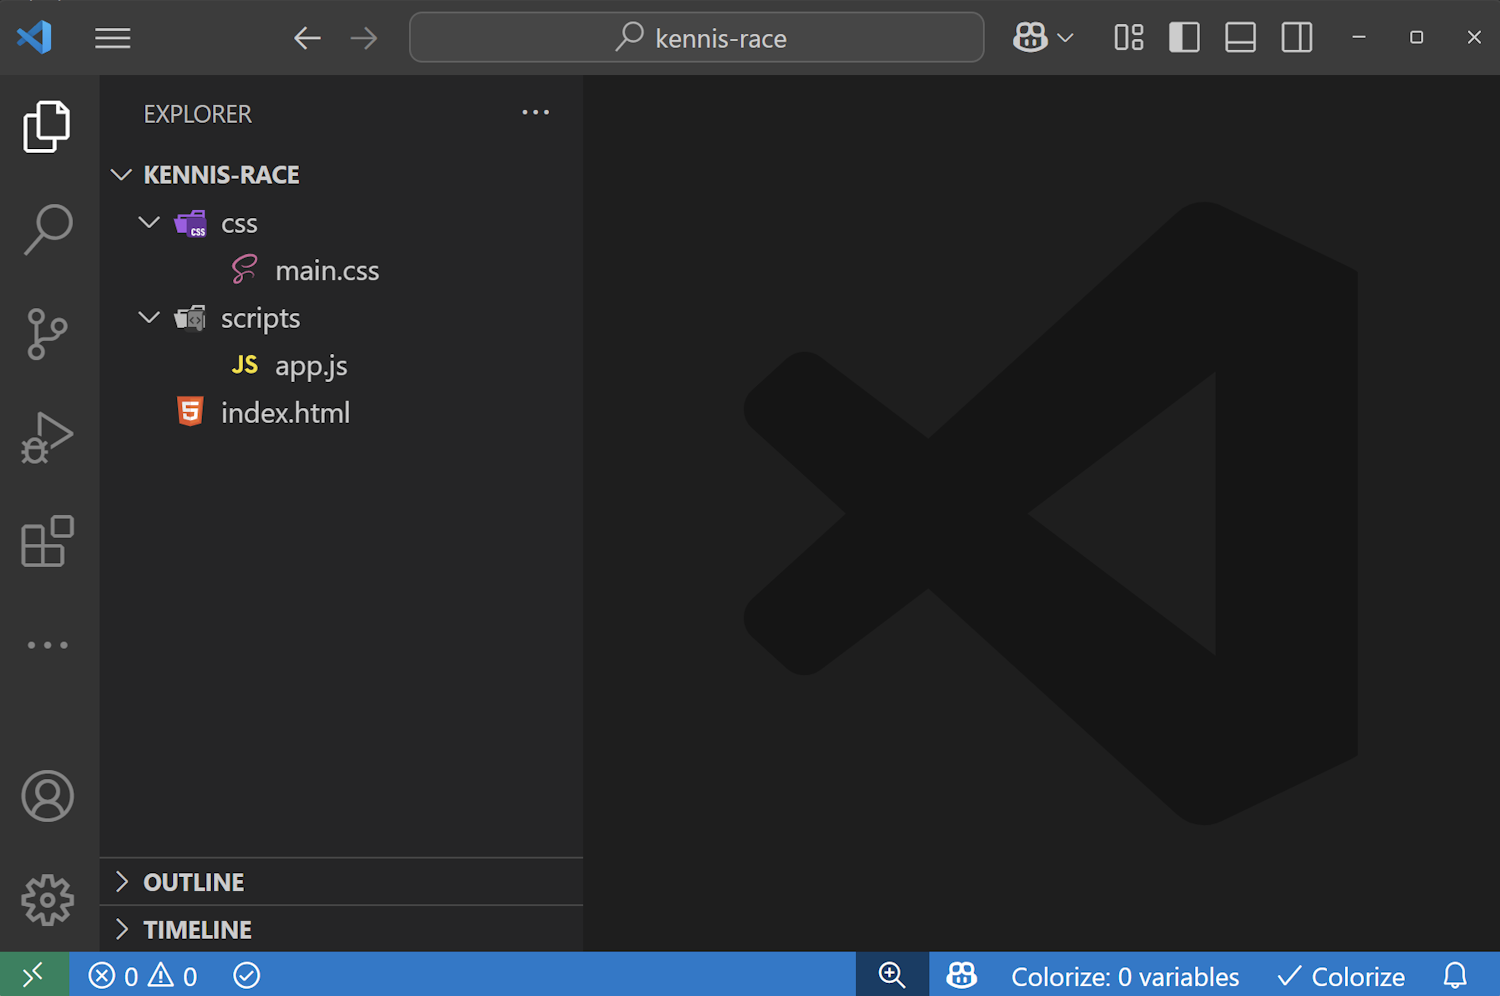
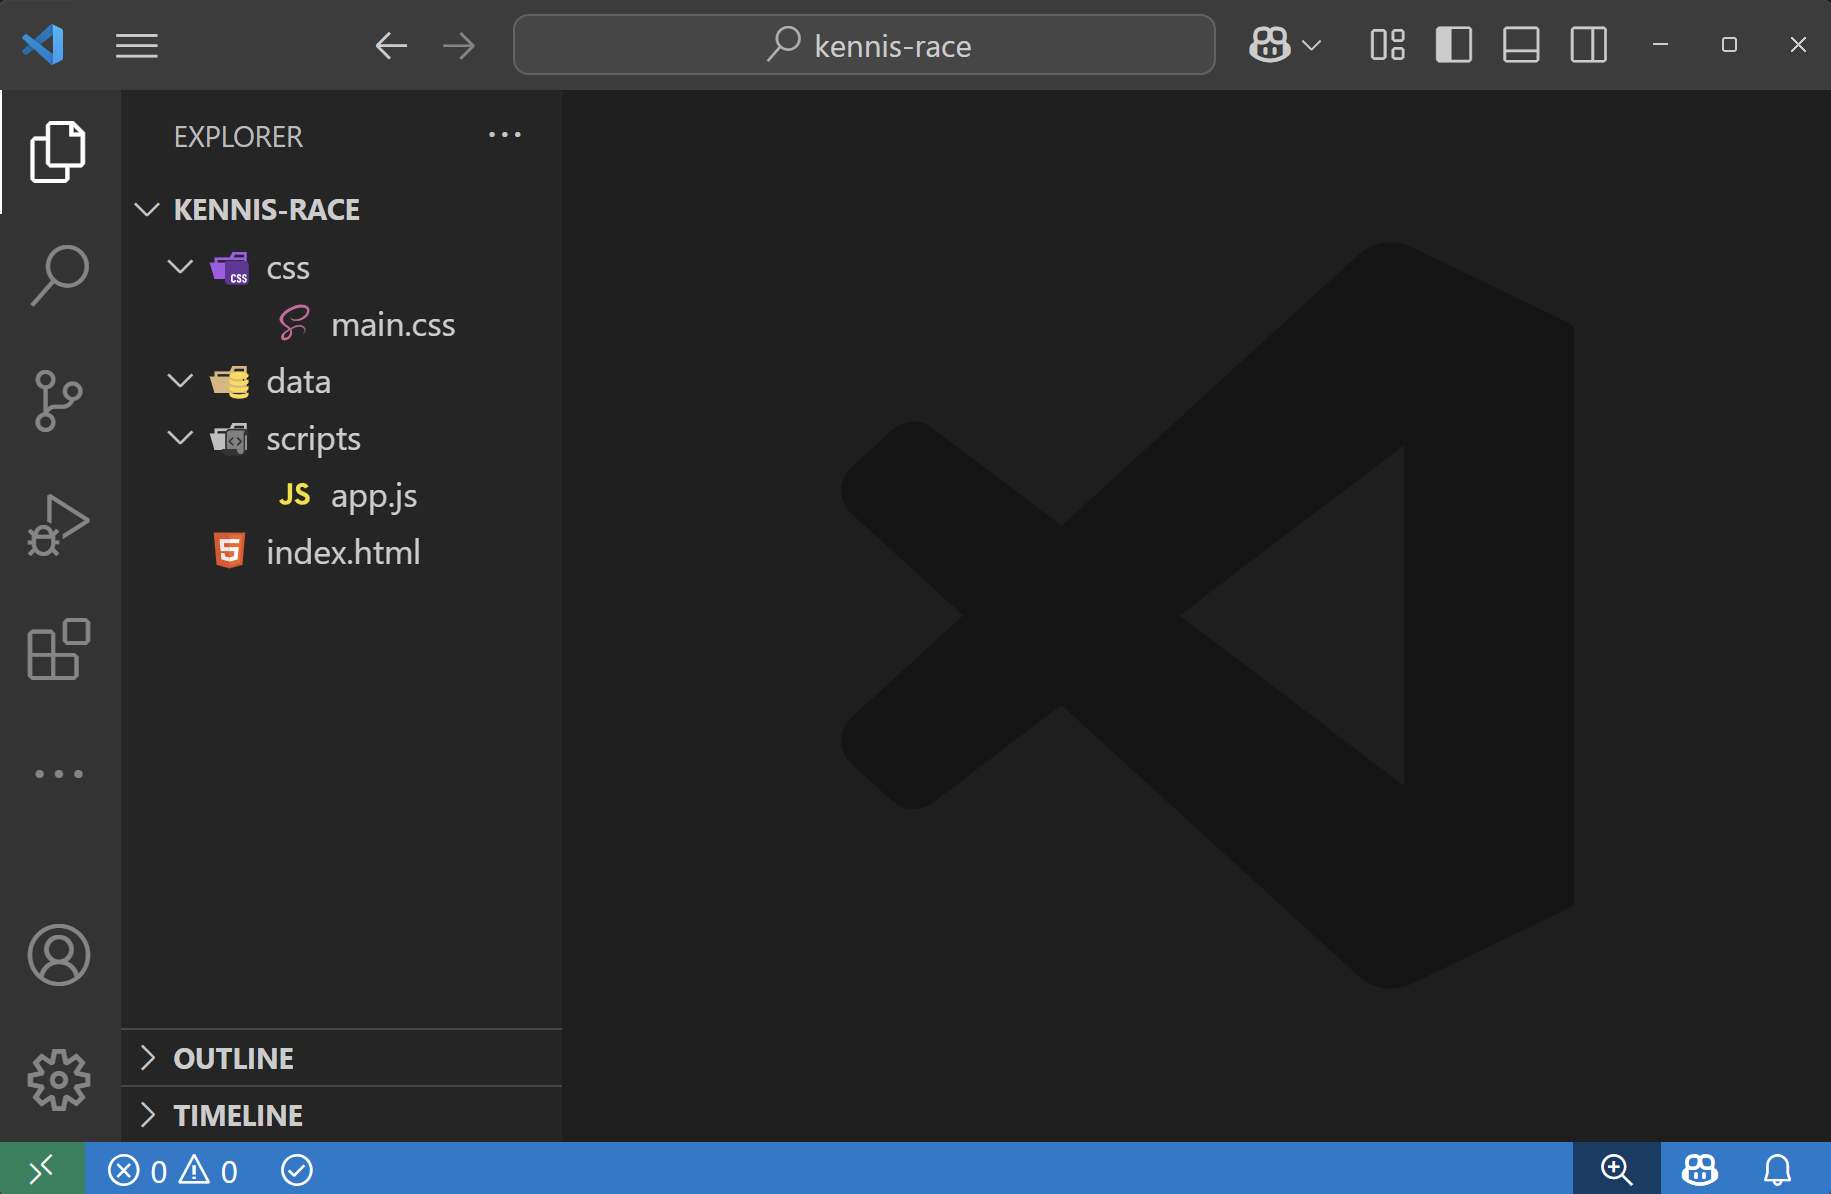
added first  javascript steps to tutorial

diff --git a/tutorial.html b/tutorial.html
@@ -38,19 +38,19 @@
                         <img class="tutorial__image" alt="Maak een nieuwe folder" src="./src/assets/screenshot2.png">
 
                     </li>
-                    <li>
+                    <li class="step__item">
                         1.2 Open Visual Studio Code en open de nieuwe folder.
                         <img class="tutorial__image" alt="Open de nieuwe folder" src="./src/assets/screenshot3.png">
                     </li>
-                    <li>
+                    <li class="step__item">
                         1.3 De map- en bestandsstructuur ziet er zo uit:
                         <img class="tutorial__image" alt="Maak map- en bestandsstructuur" src="./src/assets/screenshot4.png">
                     </li>
-                    <li>
+                    <li class="step__item">
                         1.4 Installeer de Live Server extensie in Visual Studio Code.
                         <img class="tutorial__image" alt="Installeer live server extensie" src="./src/assets/screenshot5.png">
                     </li>
-                    <li>
+                    <li class="step__item">
                         1.5 Start de Live Server door onderaan op <span>Go Live</span> te klikken. Dit opent een nieuw browservenster met je project.
                         <img class="tutorial__image" alt="Open de live server" src="./src/assets/screenshot6.png">
                     </li>
@@ -60,7 +60,7 @@
                 <h2>Stap 2: HTML</h2>
                 <p>HTML vormt de basis van je website. Gebruikersinteractie volgt later.</p>
                 <ul class="step__list">
-                    <li>
+                    <li class="step__item">
                         2.1 Kopieer onderstaande code in het <span class="tutorial__highlight">index.html</span> bestand. Dit is de basis stuctuur van een webpagina.
                         <pre>
 <code>&lt;<span class="tag">!DOCTYPE </span><span class="attr">html</span>&gt;
@@ -69,7 +69,7 @@
 &lt;<span class="tag">head</span>&gt;
     &lt;<span class="tag">meta</span> <span class="attr">charset</span>=<span class="string">&quot;UTF-8&quot;</span>&gt;
     &lt;<span class="tag">meta</span> <span class="attr">name</span>=<span class="string">&quot;viewport&quot;</span> <span class="attr">content</span>=<span class="string">&quot;width=device-width, initial-scale=1.0&quot;</span>&gt;
-    &lt;<span class="tag">title</span>&gt;<span class="text">Kennis Race</span>&lt;/<span class="tag">title</span>&gt;
+    &lt;<span class="tag">title</span>&gt;Kennis Race&lt;/<span class="tag">title</span>&gt;
     &lt;<span class="tag">link</span> <span class="attr">rel</span>=<span class="string">&quot;preconnect&quot;</span> <span class="attr">href</span>=<span class="string">&quot;https://fonts.googleapis.com&quot;</span>&gt;
     &lt;<span class="tag">link</span> <span class="attr">rel</span>=<span class="string">&quot;preconnect&quot;</span> <span class="attr">href</span>=<span class="string">&quot;https://fonts.gstatic.com&quot;</span> <span class="attr">crossorigin</span>&gt;
     &lt;<span class="tag">link</span> <span class="attr">href</span>=<span class="string">&quot;https://fonts.googleapis.com/css2?family=Major+Mono+Display&amp;display=swap&quot;</span> <span class="attr">rel</span>=<span class="string">&quot;stylesheet&quot;</span>&gt;
@@ -83,42 +83,38 @@
     <span class="comment">&lt;!-- Voeg hier code toe --&gt;</span>
 
     &lt;/<span class="tag">main</span>&gt;
-    &lt;<span class="tag">script</span> <span class="attr">type</span>=<span class="string">&quot;module&quot;</span> <span class="attr">src</span>=<span class="string">&quot;./src/scripts/main.js&quot;</span>&gt;&lt;/<span class="tag">script</span>&gt;
+    &lt;<span class="tag">script</span> <span class="attr">type</span>=<span class="string">&quot;module&quot;</span> <span class="attr">src</span>=<span class="string">&quot;./scripts/app.js&quot;</span>&gt;&lt;/<span class="tag">script</span>&gt;
 &lt;/<span class="tag">body</span>&gt;
 &lt;/<span class="tag">html</span>&gt;
-</code>
-                          </pre>
+</code></pre>
                     </li>
                     <br>
                         2.2 Voeg nu deze code toe aan je index.html, tussen de <span class="tutorial__highlight">&lt;main&gt;</span> en <span class="tutorial__highlight">&lt;/main&gt;</span> tags.
                         
                         <pre>
 <code>&lt;<span class="tag">section</span> <span class="attr">class</span>=<span class="string">&quot;quiz__content&quot;</span>&gt;
-    &lt;<span class="tag">h1</span> <span class="attr">class</span>=<span class="string">&quot;quiz__question&quot;</span>&gt;<span class="text">Quizvraag</span>&lt;/<span class="tag">h1</span>&gt;
+    &lt;<span class="tag">h1</span> <span class="attr">class</span>=<span class="string">&quot;quiz__question&quot;</span>&gt;Quizvraag&lt;/<span class="tag">h1</span>&gt;
     &lt;<span class="tag">p</span> <span class="attr">class</span>=<span class="string">&quot;quiz__turn&quot;</span>&gt;
-        &lt;<span class="tag">span</span> <span class="attr">class</span>=<span class="string">&quot;quiz__player--1&quot;</span>&gt;<span class="text">Speler x</span>&lt;/<span class="tag">span</span>&gt; 
-        <span class="text">is aan de beurt</span>
+        &lt;<span class="tag">span</span> <span class="attr">class</span>=<span class="string">&quot;quiz__player--1&quot;</span>&gt;Speler x&lt;/<span class="tag">span</span>&gt; 
+        is aan de beurt
     &lt;/<span class="tag">p</span>&gt;
     &lt;<span class="tag">p</span> <span class="attr">class</span>=<span class="string">&quot;quiz__answer&quot;</span>&gt;&lt;/<span class="tag">p</span>&gt;
 &lt;/<span class="tag">section</span>&gt;
-</code>
-                          </pre>
+</code></pre>
                     </li>
-                    <li>
+                    <li class="step__item">
                         2.3 Voeg onder bovenstaande code ook deze code toe.
                         <pre>
-<code>
-&lt;<span class="tag">section</span> <span class="attr">class</span>=<span class="string">"buttons"</span>&gt;
+<code>&lt;<span class="tag">section</span> <span class="attr">class</span>=<span class="string">"buttons"</span>&gt;
     &lt;<span class="tag">button</span> <span class="attr">class</span>=<span class="string">"button button--true"</span>&gt;Juist&lt;/<span class="tag">button</span>&gt;
     &lt;<span class="tag">button</span> <span class="attr">class</span>=<span class="string">"button button--false"</span>&gt;Fout&lt;/<span class="tag">button</span>&gt;
 &lt;/<span class="tag">section</span>&gt;
-</code>
-                        </pre>
+</code></pre>
                         Nu zal je webpagina er zo uitzien, een titel met subtitel en twee knoppen.
                         <img class="tutorial__image" alt="Start van webpagina" src="./src/assets/screenshot7.png">
                     </li>
-                    <li>
-                        2.4 Tussen de section met klasses <span class="tutorial__highlight">"quiz__content"</span> en <span class="tutorial__highlight">"quiz__buttons"</span> voeg je volgende code toe.<br>
+                    <li class="step__item">
+                        2.4 Tussen de sections <span class="tutorial__highlight">"quiz__content"</span> en <span class="tutorial__highlight">"quiz__buttons"</span> voeg je volgende code toe.<br>
                         Deze code zal nog niet visueels toevoegen, maar later worden dit de voortgangsbalken van de spelers.
                         <pre>
 <code>&lt;<span class="tag">section</span> <span class="attr">class</span>=<span class="string">&quot;quiz__progress&quot;</span>&gt;
@@ -147,8 +143,7 @@
         &lt;<span class="tag">div</span> <span class="attr">class</span>=<span class="string">&quot;progress__step&quot;</span>&gt;&lt;/<span class="tag">div</span>&gt;
         &lt;<span class="tag">div</span> <span class="attr">class</span>=<span class="string">&quot;progress__step&quot;</span>&gt;&lt;/<span class="tag">div</span>&gt;
     &lt;/<span class="tag">div</span>&gt;
-&lt;/<span class="tag">section</span>&gt;</code>
-                          </pre>
+&lt;/<span class="tag">section</span>&gt;</code></pre>
                     </li>
 
                 </ul>
@@ -157,9 +152,8 @@
                 <h2>Stap 3: CSS</h2>
                 <p>CSS zorgt voor de vormgeving en stijl van je website.</p>
                 <ul class="step__list">
-                    <li>
-                        3.1 Plak deze code in je <span class="tutorial__highlight">main.css</span> bestand. Dit geeft een mooie layout aan het spel.
-                        Alle kleuren kun je zelf kiezen en aanpassen, hoe je zelf de game eruit wil laten zien.
+                    <li class="step__item">
+                        3.1 Plak deze code in je <span class="tutorial__highlight">main.css</span> bestand. Dit geeft een mooie layout aan het spel.<br>
                         <pre>
 <code><span class="selector">body {</span>
     <span class="attr">font-family</span>: <span class="string">monospace</span>;
@@ -286,13 +280,111 @@
     <span class="attr">color</span>: #fff;
     <span class="attr">transition</span>: <span class="value">background-color 0.3s ease, color 0.3s ease</span>;
 <span class="selector">}</span>
-</code>
-                        </pre>
+</code></pre>
+                        Zo zal je pagina er uitzien. Alle kleuren kun je zelf kiezen en aanpassen, hoe je zelf het spel eruit wil laten zien.
+                        <img class="tutorial__image" alt="Gestijlde webpagina" src="./src/assets/screenshot8.png">
+
                     </li>
-                    <li></li>
-                    <li></li>
-                    <li></li>
-                    <li></li>
+                </ul>
+            </section>
+            <section class="step">
+                <h2 class="step__title">Stap 4: JavaScript</h2>
+                <p>JavaScript geeft functionaliteit aan het spel.</p>
+                <ul class="step__list">
+                    <li class="step__item">
+                        4.1 Het eerste wat we gaan doen is zorgen dat we quizvragen hebben. Iedere quizvraag bestaat uit een <span class="tutorial__highlight">question</span> en een <span class="tutorial__highlight">answer</span>. Een answer kan true of false zijn.<br>
+                        Download <a href="./src/data/questions.js" download>questions.js</a>, een bestand met 50 quizvragen en plaats deze in de <span class="tutorial__highlight">data</span> folder.
+                        <img class="tutorial__image" alt="questions.js in data folder" src="./src/assets/screenshot9.png">
+                    </li>
+                    <li class="step__item">
+                        4.2 In <span class="tutorial__highlight">app.js</span> schrijf je helemaal bovenaan je bestand deze code.<br>
+                        We importeren de array van vragen en initialiseren enkele variabelen die we later gaan gebruiken.
+                        <pre>
+<code><span class="symbol">import </span><span class="attr">questionArray </span><span class="symbol">from </span><span class="string">"../data/questions.js"</span>;
+ 
+<span class="tag">let</span> <span class="attr">player1Score</span> = <span class="value">0</span>, <span class="attr">player2Score</span> = <span class="value">0</span>;
+<span class="tag">let</span> <span class="attr">currentPlayer</span> = <span class="value">1</span>;
+<span class="tag">let</span> <span class="attr">currentAnswer</span> = <span class="tag">null</span>;
+<span class="tag">let</span> <span class="attr">isWaiting</span> = <span class="tag">false</span>;
+
+<span class="tag">const</span> <span class="var">$questionDisplay</span> = <span class="attr">document</span>.<span class="selector">querySelector</span>(<span class="string">".quiz__question"</span>);
+<span class="tag">const</span> <span class="var">$playerTurnDisplay</span> = <span class="attr">document</span>.<span class="selector">querySelector</span>(<span class="string">".quiz__turn"</span>);
+<span class="tag">const</span> <span class="var">$answerDisplay</span> = <span class="attr">document</span>.<span class="selector">querySelector</span>(<span class="string">".quiz__answer"</span>);
+<span class="tag">const</span> <span class="var">$trueButton</span> = <span class="attr">document</span>.<span class="selector">querySelector</span>(<span class="string">".button--true"</span>);
+<span class="tag">const</span> <span class="var">$falseButton</span> = <span class="attr">document</span>.<span class="selector">querySelector</span>(<span class="string">".button--false"</span>);
+</code></pre>
+                    </li>
+                    <li class="step__item">
+                        4.3 Voeg nu onder de initialisatie deze lege functies toe.
+<pre><code>function startGame() {
+    initButtons();
+    updatePoints();
+    playerTurn();
+}
+
+function playerTurn() {
+
+}
+
+function initButtons() {
+
+}
+
+function updatePoints() {
+
+}
+
+startGame();
+</code></pre>
+                    </li>
+                    <li class="step__item">
+                        4.4 Nu gaan we een random vraag tonen op de website.<br>
+                        Schrijf in de functie <span class="tutorial__highlight">playerTurn()</span> onderstaande code.<br>
+                        Hierin halen we een random vraag uit de array, en tonen we deze in <span class="tutorial__highlight">$questionDisplay</span>.
+                        <pre>
+<code><span class="tag">function </span><span class="selector">playerTurn() </span>{
+    <span class="tag">const </span><span class="var">randomQuestion</span> = <span class="var">questionArray</span>[<span class="attr">Math</span>.<span class="selector">floor</span>(<span class="attr">Math</span>.<span class="selector">random</span>() * <span class="var">questionArray</span>.<span class="attr">length</span>)];
+    </span><span class="var">$questionDisplay</span>.<span class="attr">innerHTML</span> = <span class="var">randomQuestion</span>.<span class="attr">question</span>;
+}
+</code></pre>
+                        Roep nu als test deze funtie op door onderaan je code <span class="tutorial__highlight">playerTurn();</span> te schrijven.
+                        Als je nu je website herlaad, wordt er elke keer een random quizvraag getoont.
+                    </li>
+                    <li class="step__item">
+                        4.5 Nu gaan we tonen welke speler aan de beurt is. Dit doen we aan de hand van de variabele <span class="tutorial__highlight">currentPlayer</span>.<br>
+                        Voeg in de functie <span class="tutorial__highlight">playerTurn()</span> deze lijn code toe.
+<pre><code>$playerTurnDisplay.innerHTML = `&lt;span class="quiz__player--${currentPlayer}"&gt;Speler ${currentPlayer}&lt;/span&gt; is aan de beurt`;
+</code></pre>
+                        Hiermee tonen we de variabele <span class="tutorial__highlight">currentPlayer</span> op de website.
+                    </li>
+                    <li class="step__item">
+                        4.6 Vervolgens willen we onze knoppen laten werken. Schrijf deze code in de functie <span class="tutorial__highlight">initButtons()</span><br>
+                        De <span class="tutorial__highlight">isWaiting</span> variabele nodig om spammen tegen te houden. Enkel wanneer deze true is, kunnen we drukken op de knop
+<pre><code>function initButtons() {
+    $trueButton.addEventListener("click", () => {
+        if (!isWaiting) {
+            alert('True');
+        }
+    });
+
+    $falseButton.addEventListener("click", () => {
+        if (!isWaiting) {
+            alert('False');
+        }
+    });
+}
+</code></pre>
+                        Voor nu schrijven we een alert als we op een knop drukken. Later passen we dit aan.
+                        <img class="tutorial__image" alt="Alert op de game page" src="./src/assets/screenshot10.png">
+                    </li>
+                    <li class="step__item">
+                        4.7 Nu willen we de punten van de spelers kunnen zien. In index.html hebben we per speler 10 divs die elk voor een punt staan.<br>
+                        
+                    </li>
+                    <li class="step__item"></li>
+                    <li class="step__item"></li>
+                    <li class="step__item"></li>
+                    <li class="step__item"></li>
                 </ul>
             </section>
         </section>

diff --git a/src/scripts/app.js b/src/scripts/app.js
@@ -7,6 +7,7 @@ let isWaiting = false;
 
 const $questionDisplay = document.querySelector('.quiz__question');
 const $playerTurnDisplay = document.querySelector('.quiz__turn');
+const $answerDisplay = document.querySelector(".quiz__answer");
 const $trueButton = document.querySelector(".button--true");
 const $falseButton = document.querySelector(".button--false");
 
@@ -31,7 +32,7 @@ function initButtons() {
 }
 
 function playerTurn() {
-    document.querySelector(".quiz__answer").innerHTML = "";
+    $answerDisplay.innerHTML = "";
     $playerTurnDisplay.innerHTML = `<span class="quiz__player--${currentPlayer}">Speler ${currentPlayer}</span> is aan de beurt`;
 
     const randomQuestion = questionArray[Math.floor(Math.random() * questionArray.length)];
@@ -44,7 +45,6 @@ function playerTurn() {
 
 function checkAnswer(givenAnswer, correctAnswer) {
     isWaiting = true;
-    const $answerDisplay = document.querySelector(".quiz__answer");
 
     if (givenAnswer === correctAnswer) {
         currentPlayer === 1 ? player1Score++ : player2Score++;

diff --git a/src/styles/tutorial.css b/src/styles/tutorial.css
@@ -6,7 +6,7 @@
 
 .tutorial__image {
     box-shadow: #00000059 0px 5px 15px;
-    max-width: 40rem;
+    max-width: 45rem;
     border-radius: 0.5rem;
 }
 
@@ -15,6 +15,14 @@
     color: #0af;
     text-decoration: none;
     font-weight: 600;
+}
+
+.step {
+    margin-top: 5rem;
+}
+
+.step__item {
+    margin-top: 3rem;
 }
 
 pre code {
@@ -26,7 +34,7 @@ pre code {
     max-width: 55rem;
     max-height: 40rem;
     padding: 1rem;
-    overflow-x: scroll;
+    overflow-y: scroll;
     font-family: monospace;
     font-size: 14px;
     line-height: 1.5;
@@ -34,6 +42,10 @@ pre code {
   
 .tag {
     color: #679AD2;
+}
+
+.var {
+    color: #70BFF9;
 }
 
 .attr {
@@ -58,4 +70,8 @@ pre code {
 
 .value {
     color: #BACDAB;
+}
+
+.symbol {
+    color: #CD78D4;
 }
